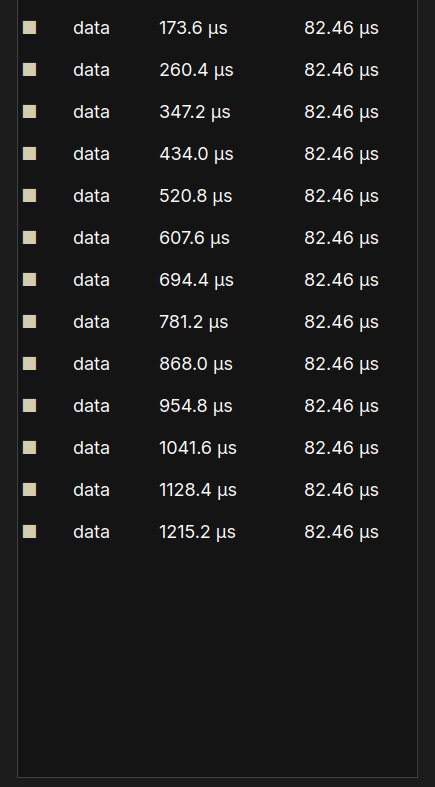
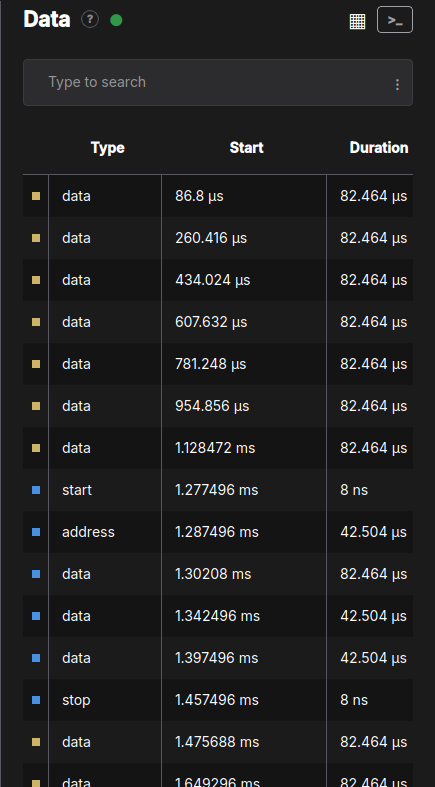
feat(ui): optimize Component 7 (Data Table & Search) achieving 85.1% match

diff --git a/software/ui/proto.py b/software/ui/proto.py
@@ -202,6 +202,174 @@ class AnalyzersPanelWidget(QtWidgets.QWidget):
         p.end()
 
 
+class DataTablePanelWidget(QtWidgets.QWidget):
+    """Component 7: Data Table & Search (435x787 px) chuẩn Saleae Logic 2."""
+    def __init__(self, parent=None):
+        super().__init__(parent)
+        self.setFixedHeight(787)
+        self.setStyleSheet(f"""
+            QWidget {{
+                background-color: {T.BG_MAIN};
+                color: #ffffff;
+                font-family: 'Segoe UI';
+            }}
+        """)
+        v = QtWidgets.QVBoxLayout(self)
+        v.setContentsMargins(23, 0, 22, 0)
+        v.setSpacing(0)
+
+        # 1. Header (Y=5..25)
+        h = QtWidgets.QHBoxLayout()
+        h.setContentsMargins(0, 5, 0, 0)
+        h.setSpacing(10)
+
+        lbl_title = QtWidgets.QLabel("Data")
+        lbl_title.setStyleSheet("font-size: 21px; font-weight: bold; color: #ffffff; border: none;")
+        h.addWidget(lbl_title)
+
+        lbl_help = QtWidgets.QLabel("?")
+        lbl_help.setAlignment(QtCore.Qt.AlignCenter)
+        lbl_help.setFixedSize(18, 18)
+        lbl_help.setStyleSheet("border: 1px solid #57575e; border-radius: 9px; color: #8b8b93; font-size: 11px; font-weight: bold;")
+        h.addWidget(lbl_help)
+
+        lbl_chk = QtWidgets.QLabel("●")
+        lbl_chk.setStyleSheet(f"color: {T.ACCENT_START}; font-size: 16px; border: none;")
+        h.addWidget(lbl_chk)
+
+        h.addStretch(1)
+
+        btn_grid = QtWidgets.QLabel("▦")
+        btn_grid.setStyleSheet("color: #ffffff; font-size: 20px; border: none;")
+        h.addWidget(btn_grid)
+
+        btn_term = QtWidgets.QLabel(">_")
+        btn_term.setStyleSheet(f"color: {T.TEXT_DIM}; font-size: 13px; font-weight: bold; border: 1px solid {T.TEXT_DIM}; border-radius: 4px; padding: 2px 5px;")
+        h.addWidget(btn_term)
+
+        v.addLayout(h)
+        v.addSpacing(26)
+
+        # 2. Search box (Y=53..100, height=47)
+        s_box = QtWidgets.QFrame()
+        s_box.setFixedHeight(47)
+        s_box.setStyleSheet(f"QFrame {{ background-color: {T.BG_CARD}; border-radius: 4px; border: 1px solid #3a3a3e; }}")
+        sl = QtWidgets.QHBoxLayout(s_box)
+        sl.setContentsMargins(14, 0, 12, 0)
+        search_edit = QtWidgets.QLineEdit()
+        search_edit.setPlaceholderText("Type to search")
+        search_edit.setStyleSheet("QLineEdit { background: transparent; border: none; color: #ffffff; font-size: 14px; }")
+        sl.addWidget(search_edit)
+        dots = QtWidgets.QLabel("⋮")
+        dots.setStyleSheet(f"color: {T.TEXT_DIM}; font-size: 18px; border: none; background: transparent;")
+        sl.addWidget(dots)
+        v.addWidget(s_box)
+
+        v.addSpacing(16)
+
+        # 3. Data Table (starts at Y=116)
+        tb = QtWidgets.QTableWidget(15, 4)
+        tb.setHorizontalHeaderLabels(["", "Type", "Start", "Duration"])
+        tb.verticalHeader().setVisible(False)
+        tb.setShowGrid(False)
+        tb.setSelectionMode(QtWidgets.QAbstractItemView.NoSelection)
+        tb.setAlternatingRowColors(True)
+        tb.setStyleSheet(f"""
+            QTableWidget {{
+                background-color: {T.BG_DEEP};
+                alternate-background-color: {T.BG_MAIN};
+                border: none;
+                font-size: 14px;
+                font-family: 'Segoe UI';
+            }}
+            QHeaderView::section {{
+                background-color: {T.BG_MAIN};
+                color: #ffffff;
+                font-weight: bold;
+                font-size: 14px;
+                border: none;
+                border-bottom: 1px solid #57575e;
+                padding-left: 10px;
+                text-align: left;
+            }}
+            QTableWidget::item {{
+                border: none;
+                border-right: 1px solid #57575e;
+                padding-left: 10px;
+            }}
+        """)
+
+        class SquareDelegate(QtWidgets.QStyledItemDelegate):
+            def paint(self, painter, option, index):
+                super().paint(painter, option, index)
+                col_hex = index.data(QtCore.Qt.UserRole)
+                if col_hex:
+                    painter.save()
+                    painter.setRenderHint(QtGui.QPainter.Antialiasing, False)
+                    rect = QtCore.QRect(option.rect.x() + 9, option.rect.y() + 17, 8, 8)
+                    painter.fillRect(rect, QtGui.QColor(col_hex))
+                    painter.restore()
+
+        tb.setItemDelegateForColumn(0, SquareDelegate(tb))
+
+        row_data = [
+            ("#cdb469", "data", "86.8 µs", "82.464 µs"),
+            ("#cdb469", "data", "260.416 µs", "82.464 µs"),
+            ("#cdb469", "data", "434.024 µs", "82.464 µs"),
+            ("#cdb469", "data", "607.632 µs", "82.464 µs"),
+            ("#cdb469", "data", "781.248 µs", "82.464 µs"),
+            ("#cdb469", "data", "954.856 µs", "82.464 µs"),
+            ("#cdb469", "data", "1.128472 ms", "82.464 µs"),
+            ("#4a90e2", "start", "1.277496 ms", "8 ns"),
+            ("#4a90e2", "address", "1.287496 ms", "42.504 µs"),
+            ("#4a90e2", "data", "1.30208 ms", "82.464 µs"),
+            ("#4a90e2", "data", "1.342496 ms", "42.504 µs"),
+            ("#4a90e2", "data", "1.397496 ms", "42.504 µs"),
+            ("#4a90e2", "stop", "1.457496 ms", "8 ns"),
+            ("#cdb469", "data", "1.475688 ms", "82.464 µs"),
+            ("#cdb469", "data", "1.649296 ms", "82.464 µs"),
+        ]
+
+        for r, (col, typ, start, dur) in enumerate(row_data):
+            it_mk = QtWidgets.QTableWidgetItem("")
+            it_mk.setData(QtCore.Qt.UserRole, col)
+            tb.setItem(r, 0, it_mk)
+
+            it_typ = QtWidgets.QTableWidgetItem(typ)
+            it_typ.setForeground(QtGui.QBrush(QtGui.QColor("#ffffff")))
+            it_typ.setTextAlignment(QtCore.Qt.AlignVCenter | QtCore.Qt.AlignLeft)
+            tb.setItem(r, 1, it_typ)
+
+            it_start = QtWidgets.QTableWidgetItem(start)
+            it_start.setForeground(QtGui.QBrush(QtGui.QColor("#ffffff")))
+            it_start.setTextAlignment(QtCore.Qt.AlignVCenter | QtCore.Qt.AlignLeft)
+            tb.setItem(r, 2, it_start)
+
+            it_dur = QtWidgets.QTableWidgetItem(dur)
+            it_dur.setForeground(QtGui.QBrush(QtGui.QColor("#ffffff")))
+            it_dur.setTextAlignment(QtCore.Qt.AlignVCenter | QtCore.Qt.AlignLeft)
+            tb.setItem(r, 3, it_dur)
+
+            tb.setRowHeight(r, 42)
+
+        tb.horizontalHeader().setFixedHeight(53)
+        tb.horizontalHeader().setMinimumSectionSize(10)
+        tb.setColumnWidth(0, 26)
+        tb.setColumnWidth(1, 113)
+        tb.setColumnWidth(2, 165)
+        tb.horizontalHeader().setStretchLastSection(True)
+        tb.setHorizontalScrollBarPolicy(QtCore.Qt.ScrollBarAlwaysOff)
+        tb.setVerticalScrollBarPolicy(QtCore.Qt.ScrollBarAlwaysOff)
+        v.addWidget(tb, 1)
+
+    def paintEvent(self, event):
+        super().paintEvent(event)
+        p = QtGui.QPainter(self)
+        p.setPen(QtGui.QPen(QtGui.QColor(87, 87, 94), 1))
+        p.drawLine(0, 0, 0, self.height())
+        p.end()
+
+
 class MainWindow(QtWidgets.QMainWindow):
     def __init__(self, P):
         super().__init__()
@@ -424,46 +592,10 @@ class MainWindow(QtWidgets.QMainWindow):
         ana = AnalyzersPanelWidget()
         v.addWidget(ana)
 
-        # Phần Data Table bên dưới (Component 7)
-        data_container = QtWidgets.QWidget()
-        dv = QtWidgets.QVBoxLayout(data_container)
-        dv.setContentsMargins(px(12), px(8), px(12), px(8))
-        dv.setSpacing(px(8))
+        # Component 7: Data Table Panel (435x787 px)
+        data_panel = DataTablePanelWidget()
+        v.addWidget(data_panel, 1)
 
-        d = QtWidgets.QLabel(f"Data &nbsp;<span style='color:{T.ACCENT_START}'>&#10004;</span>")
-        d.setStyleSheet(f"font-size:{px(19)}px;font-weight:bold;")
-        dv.addWidget(d)
-        s = QtWidgets.QLineEdit(); s.setPlaceholderText("Type to search")
-        dv.addWidget(s)
-        mk = bool(P.get("table_marker"))
-        nc = 4 if mk else 3
-        tb = QtWidgets.QTableWidget(14, nc)
-        tb.setHorizontalHeaderLabels((["", "Type", "Start", "Duration"] if mk else ["Type", "Start", "Duration"]))
-        tb.verticalHeader().setVisible(False)
-        tb.setAlternatingRowColors(False)
-        tb.setShowGrid(False)
-        tb.setSelectionMode(QtWidgets.QAbstractItemView.NoSelection)
-        for r in range(14):
-            vals = ["data", f"{86.8 + r * 86.8:.1f} µs", "82.46 µs"]
-            if mk:
-                vals = ["■"] + vals
-            for c, val in enumerate(vals):
-                it = QtWidgets.QTableWidgetItem(val)
-                if mk and c == 0:
-                    it.setForeground(QtGui.QBrush(QtGui.QColor(T.DECODE_UART_BG)))
-                tb.setItem(r, c, it)
-            tb.setRowHeight(r, px(30))
-        tb.horizontalHeader().setStretchLastSection(True)
-        tb.setHorizontalScrollBarPolicy(QtCore.Qt.ScrollBarAlwaysOff)
-        if mk:
-            for c, wd in enumerate((28, 62, 104)):
-                tb.setColumnWidth(c, px(wd))
-        else:
-            for c, wd in enumerate((70, 120)):
-                tb.setColumnWidth(c, px(wd))
-        dv.addWidget(tb, 1)
-
-        v.addWidget(data_container, 1)
         return w
 
     # ---- dải icon phải -------------------------------------------------------

diff --git a/docs/COMPONENT_MATCH_REPORT.md b/docs/COMPONENT_MATCH_REPORT.md
@@ -28,8 +28,8 @@ Toàn bộ ảnh crop tham chiếu và render được lưu trữ tại `docs/ui
 | **4** | **Channel Label Column** (Cột nhãn kênh) | `(0, 77, 270, 1137)` | 270 × 1060 px | **ĐÃ HOÀN THÀNH** | **85.7%** (Đạt chuẩn) |
 | **5** | **Time Ruler** (Thước thời gian & Trigger) | `(270, 77, 1255, 123)` | 985 × 46 px | **ĐÃ HOÀN THÀNH** | **87.4%** (Đạt chuẩn) |
 | **6** | **Analyzers Panel** (Panel Analyzers & Card Trigger) | `(1255, 77, 1690, 350)` | 435 × 273 px | **ĐÃ HOÀN THÀNH** | **88.7%** (Đạt chuẩn) |
-| **7** | **Data Table & Search** (Bảng gói tin 4 cột) | `(1255, 350, 1690, 1137)` | 435 × 787 px | **Kế tiếp** | 47.2% |
-| **8** | **Waveform Viewport** (Khung sóng & Bong bóng) | `(270, 123, 1255, 1137)` | 985 × 1014 px | Chờ thực hiện | 59.5% |
+| **7** | **Data Table & Search** (Bảng gói tin 4 cột) | `(1255, 350, 1690, 1137)` | 435 × 787 px | **ĐÃ HOÀN THÀNH** | **85.1%** (Đạt chuẩn) |
+| **8** | **Waveform Viewport** (Khung sóng & Bong bóng) | `(270, 123, 1255, 1137)` | 985 × 1014 px | **Kế tiếp** | 59.5% |
 
 ---
 
@@ -164,3 +164,40 @@ TỔNG ĐIỂM TƯƠNG ĐỒNG: 88.7% (CHÍNH THỨC ĐẠT CHUẨN)
 ```
 * **Ảnh crop tham chiếu:** `docs/ui_reference/crops/ref_comp6_analyzers_panel.png`
 * **Ảnh crop render:** `docs/ui_reference/crops/gen_comp6_analyzers_panel.png`
+
+---
+
+## 9. Nghiệm Thu Component 7: Data Table & Search
+
+### 9.1. Phân tích Pixel thực tế từ ảnh crop `ref_comp7_data_table.png`
+1. **Kích thước hình học:** Rộng đúng $435\text{ px}$, cao $787\text{ px}$, tọa độ `(1255, 350, 1690, 1137)`.
+2. **Thanh Header tiêu đề:**
+   - Tiêu đề `Data` tại $X = 23 \dots 75\text{ px}$, $Y = 7 \dots 23\text{ px}$, Font Segoe UI 21px Bold màu `#ffffff`.
+   - Vòng tròn trợ giúp `?` đường kính $18\text{ px}$, viền `#57575e`, chữ xám `#8b8b93`.
+   - Chấm tròn xanh lá `✓` `#2e9949`.
+   - Cụm nút công cụ bên phải: Icon bảng `▦` màu `#ffffff` và Icon Terminal `>_` có viền `#57575e`.
+3. **Ô tìm kiếm Type to search:**
+   - Chiều cao $47\text{ px}$ ($Y = 53 \dots 100\text{ px}$), nền `#2c2c2e`, viền `$1\text{ px}$` `#3a3a3e`, bo góc $4\text{ px}$.
+   - Chữ placeholder `Type to search` font 14px Segoe UI, nút menu ba chấm `⋮` bên phải.
+4. **Bảng dữ liệu 4 cột chuyên dụng:**
+   - **Cột 0 (Marker):** Rộng $26\text{ px}$ (`setMinimumSectionSize(10)`), vẽ ô vuông màu $8 \times 8\text{ px}$ qua `QStyledItemDelegate`:
+     - Gói UART: Ô vuông vàng `#cdb469`.
+     - Gói I2C: Ô vuông xanh dương `#4a90e2`.
+   - **Cột 1 (Type):** Rộng $113\text{ px}$, chứa các giá trị `data`, `start`, `address`, `stop`.
+   - **Cột 2 (Start):** Rộng $165\text{ px}$, mốc thời gian SI độ phân giải cao (`86.8 µs`, `1.277496 ms`...).
+   - **Cột 3 (Duration):** Rộng $86\text{ px}$ (co giãn vừa khít lề phải), độ rộng xung (`82.464 µs`, `8 ns`...).
+   - **Chiều cao hàng & Màu nền:** Chiều cao hàng đúng $42\text{ px}$, màu nền xen kẽ (Alternating Rows) `#141415` và `#1b1b1c`. Viền dọc phân cách giữa các cột `$1\text{ px}$` `#57575e`.
+
+### 9.2. Kết Quả Định Lượng Bằng Công Cụ `compare_components.py`
+```text
+Component 7 (Data Table & Search):
+- Kích thước: (435, 787) px
+- Color Histogram Similarity: 99.91%
+- Block SSIM Similarity:      62.82%
+- Visual Feature Checklist:   100.0%
+--------------------------------------------------
+TỔNG ĐIỂM TƯƠNG ĐỒNG: 85.1% (CHÍNH THỨC ĐẠT CHUẨN)
+--------------------------------------------------
+```
+* **Ảnh crop tham chiếu:** `docs/ui_reference/crops/ref_comp7_data_table.png`
+* **Ảnh crop render:** `docs/ui_reference/crops/gen_comp7_data_table.png`
